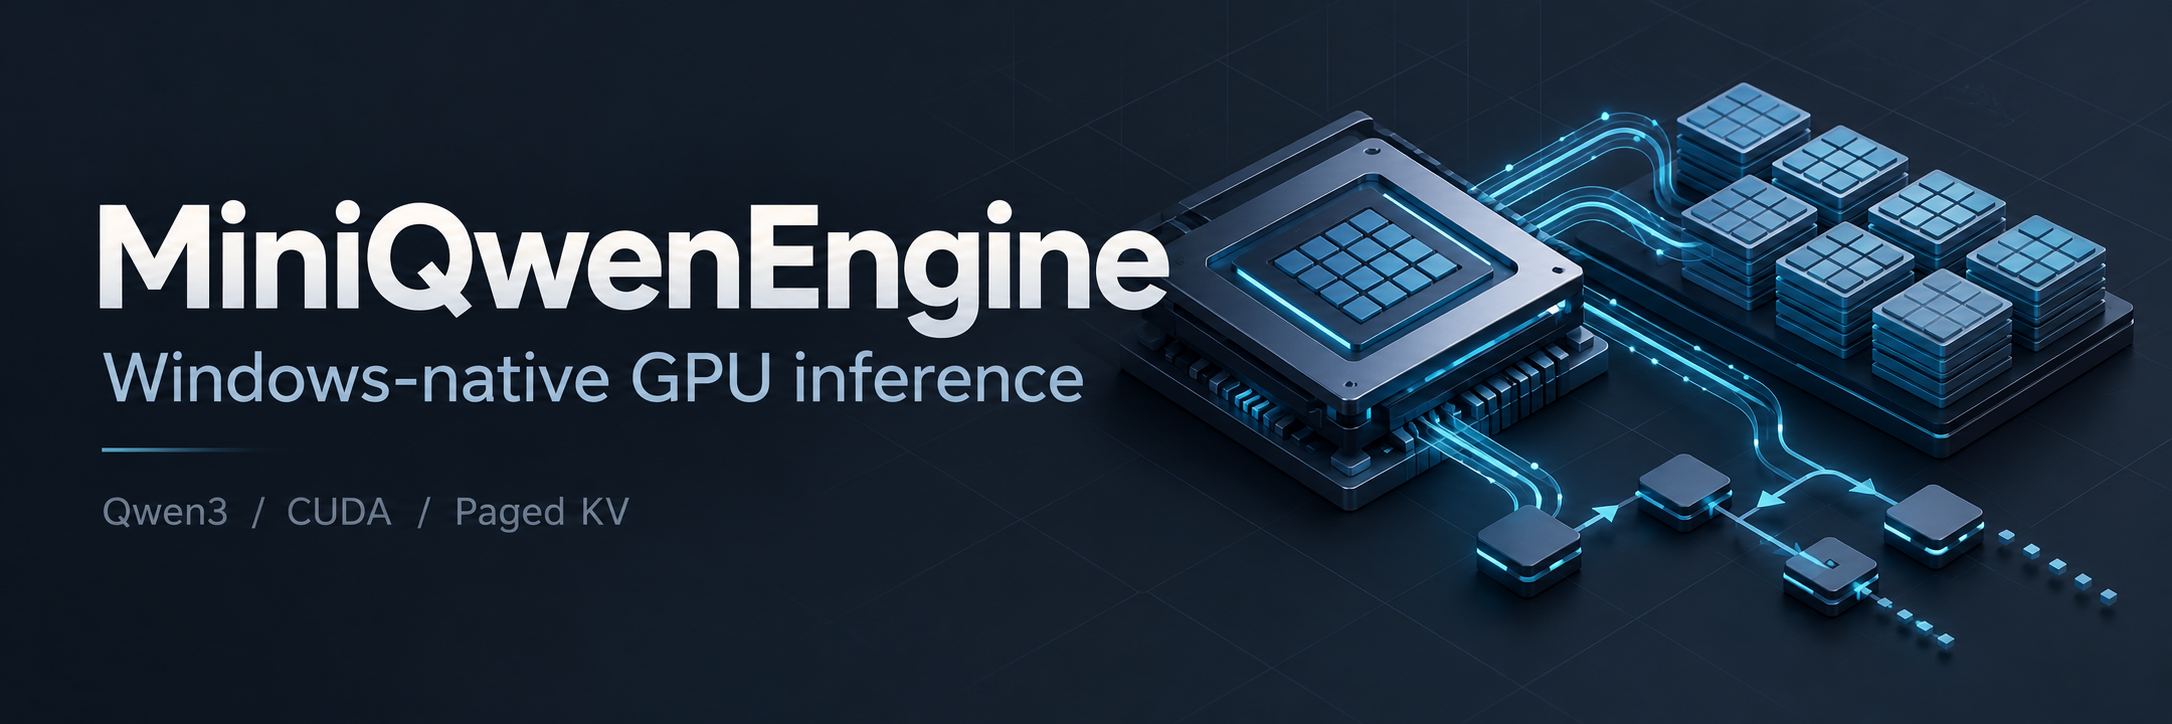
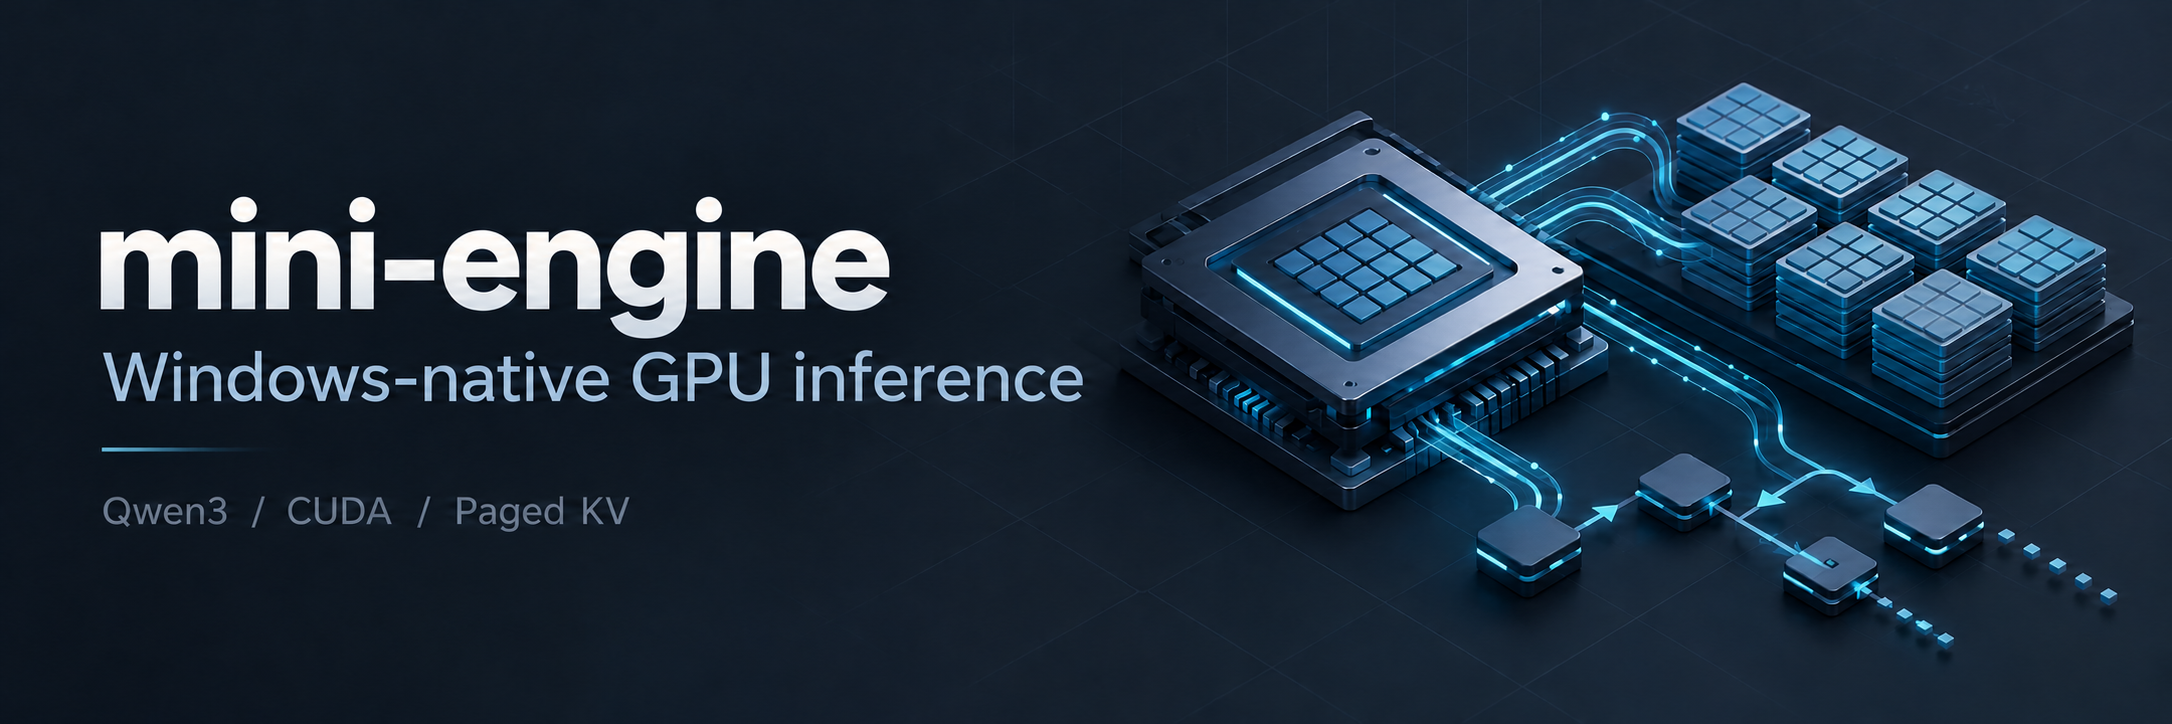
chore: use mini-engine as project name

diff --git a/mini_engine/server.py b/mini_engine/server.py
@@ -49,7 +49,7 @@ def main():
             max_num_batched_tokens=args.max_num_batched_tokens)
         service.start()
         server = ChatHTTPServer((args.host, args.port), service)
-        print(f"MiniQwenEngine listening on http://{args.host}:{server.server_port}; greedy decoding")
+        print(f"mini-engine listening on http://{args.host}:{server.server_port}; greedy decoding")
         server.serve_forever(poll_interval=0.2)
     except KeyboardInterrupt:
         pass

diff --git a/mini_engine/__main__.py b/mini_engine/__main__.py
@@ -32,7 +32,7 @@ def main():
     try:
         if args.chat:
             messages = []
-            print("MiniQwenEngine chat; type /exit to quit, /clear to reset.")
+            print("mini-engine chat; type /exit to quit, /clear to reset.")
             while True:
                 try:
                     user_text = input("you> ")

diff --git a/benchmarks/benchmark_http.py b/benchmarks/benchmark_http.py
@@ -1,4 +1,4 @@
-"""Standard-library OpenAI SSE load client for MiniQwenEngine/vLLM/SGLang.
+"""Standard-library OpenAI SSE load client for mini-engine/vLLM/SGLang.
 
 Measures client-observed request latency, including transport and server queueing.
 SSE content chunks are never treated as tokens: token metrics require usage.

diff --git a/README.en.md b/README.en.md
@@ -1,8 +1,8 @@
-<p align="center"><img src="assets/cover.png" alt="MiniQwenEngine — Windows-native GPU inference" width="100%"></p>
+<p align="center"><img src="assets/cover.png" alt="mini-engine — Windows-native GPU inference" width="100%"></p>
 
 <p align="center"><a href="README.md">简体中文</a> · <strong>English</strong></p>
 
-# MiniQwenEngine
+# mini-engine
 
 A lightweight single GPU inference engine for Windows 11, with local Qwen3-0.6B chat and HTTP/SSE serving. The project implements the model forward pass, Paged KV Cache, continuous batching, and CUDA kernels. Transformers loads weights and the tokenizer and provides a correctness reference.
 

diff --git a/README.md b/README.md
@@ -1,10 +1,10 @@
 <p align="center">
-  <img src="assets/cover.png" alt="MiniQwenEngine — Windows-native GPU inference" width="100%">
+  <img src="assets/cover.png" alt="mini-engine — Windows-native GPU inference" width="100%">
 </p>
 
 <p align="center"><strong>简体中文</strong> · <a href="README.en.md">English</a></p>
 
-# MiniQwenEngine
+# mini-engine
 
 面向 Windows 11 的轻量级单 GPU 推理引擎，支持 Qwen3-0.6B 本地对话和 HTTP/SSE 服务。项目自行实现模型 forward、Paged KV Cache、连续批处理和 CUDA 算子，使用 Transformers 加载权重与 tokenizer，并作为正确性参考。
 
